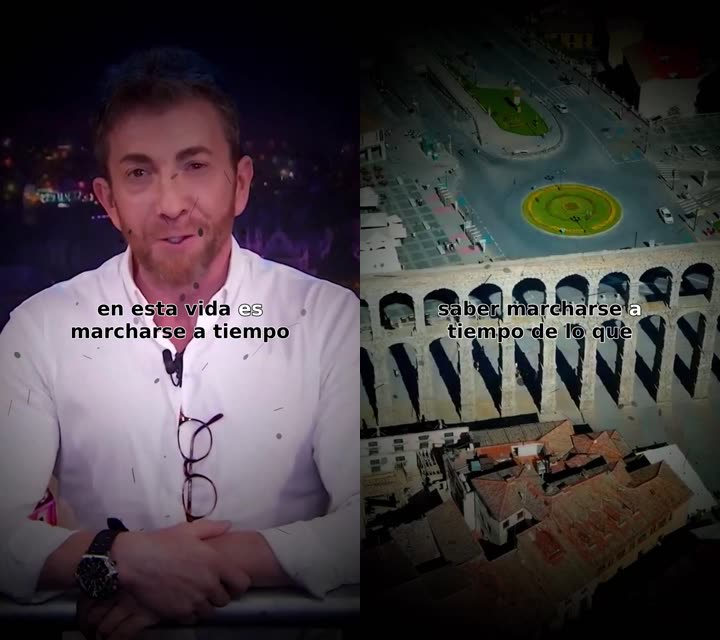
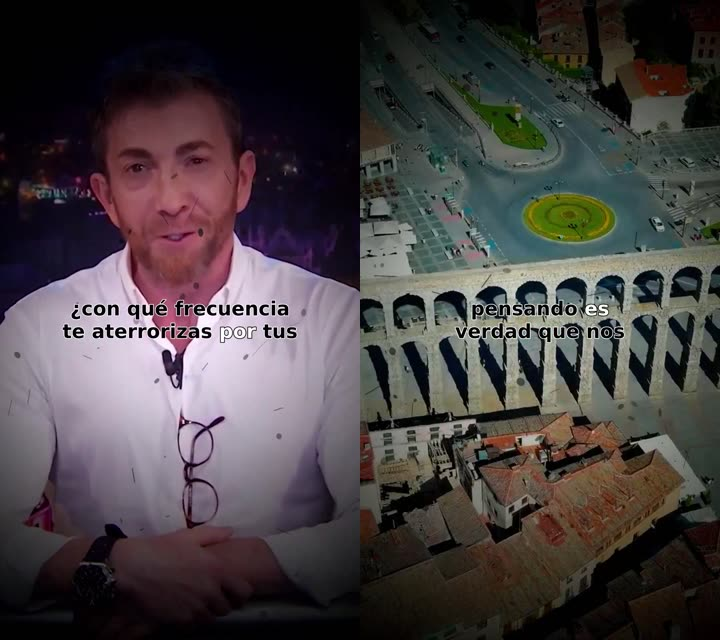
feat(viralizacion): 6 estilos (A/B/C + versiones claras) y música audible
**Estilos.** Se retiran D "Serif apilado", E "Cascada" y los dos del marco
cuadrado, G y H: no viralizaban. Quedan A, B y C, y se añaden A2, B2 y C2 —
los mismos tres textos (misma tipografía, mismo movimiento) con el acabado
LIMPIO: sin polvo de celuloide, sin rayaduras, sin grano y sin viñeta, y con
el color más claro y saturado. De los cuadrados sobrevive lo bueno que tenían:
su filtro es el de las versiones claras.

Los `build_ass` de los cuatro retirados se conservan. Volver a dar de alta un
estilo es una línea en el registro; recuperar código borrado, no.

**Música de fondo a -4 dB de la voz**, que es la muestra que eligió el operador
de cuatro (-10, -7, -6, -4). La causa de que sonara floja no era solo el valor:
`MUSIC_VOLUME` multiplicaba lo que trajera el mp3, así que el nivel dependía de
cómo estuviera masterizada la canción. Con `services/musica.py` se normaliza
antes a -24 LUFS y el ajuste pasa a significar "cuánto por debajo de la voz";
cambiar de canción ya no descoloca la mezcla.

**El limitador no limitaba.** `alimiter=limit=0.95` sin `level=disabled`
RE-NIVELA hacia el límite, o sea que subía en vez de bajar: los vídeos salían a
+0,07 dBTP, recortando. Con `level=disabled` y 0.89 quedan en -0,92 dBTP. Es el
mismo gotcha ya anotado para el POV BOF, repetido aquí.

**`voz_limpia`: `copyfile` en vez de `copy2`.** copy2 preserva metadatos y falla
con EPERM cuando el mp3 es de otro usuario (el operador sube desde el host, uid
[…]

diff --git a/src/viralizacion/pipeline/styles.py b/src/viralizacion/pipeline/styles.py
@@ -2,28 +2,21 @@
 se vean distintas si la v1 no viraliza). Registro en `STYLE_PRESETS`, orden
 de rotación en `STYLE_ORDER`.
 
-- **A "Clásico"**: línea completa blanca, borde negro, centrada — el estilo
-  ya validado por el operador.
-- **B "Reveal"**: UNA palabra en pantalla cada vez, cambiando de molde
-  tipográfico (`_STACK_MOLDES`) + grano más denso como firma visual.
-- **C "Cinemático"**: karaoke por palabra (palabra activa en blanco, resto
-  en negro) + grade frío/cálido + viñeta más fuerte + barras de letterbox
-  que entran al arrancar el b-roll.
-- **D "Teal & Orange"** (texto como C) y **F "Hora dorada"** (texto como B):
-  reaprovechan un `build_ass` existente y cambian el grade, la viñeta y la
-  transición — son variantes de color.
-- **E "Cascada"**: las palabras caen desordenadas por la pantalla
-  (`\\pos` por palabra, posición y molde sorteados) sobre un plano con motas
-  de polvo negras a la deriva.
-- **G "Cuadrado"**: marco cuadrado de esquinas redondeadas sobre fondo negro
-  y palabras que se van apilando con tipografía variada.
-- **H "Resaltado"**: mismo marco cuadrado, Montserrat ExtraBold en MAYÚSCULAS
-  abajo, la frase se va escribiendo y la palabra que suena va en amarillo.
+Son SEIS: tres estilos de texto, cada uno en dos acabados.
 
-Los dos cuadrados (G y H) son los ÚNICOS limpios: van con `_LIMPIO` y no con
-`_BASE`, o sea solo color, transiciones y texto — sin polvo, rayaduras, grano
-ni viñeta. Es una decisión del operador sobre esas dos versiones en concreto,
-no un descuido.
+- **A "Clásico"**: línea completa blanca, borde negro, centrada.
+- **B "Reveal"**: UNA palabra en pantalla cada vez, cambiando de molde
+  tipográfico (`_STACK_MOLDES`).
+- **C "Karaoke"**: palabra a palabra, la activa en blanco y el resto en negro.
+- **A2 / B2 / C2**: los mismos tres, con la MISMA tipografía y el mismo
+  movimiento, pero con el acabado LIMPIO (`_LIMPIO`): sin polvo de celuloide,
+  sin rayaduras, sin grano y sin viñeta, y con el color más claro y saturado.
+
+Hubo otros cuatro que se retiraron el 6 ago 2026 porque no viralizaban: D
+"Serif apilado", E "Cascada" y los dos del marco cuadrado, G y H. De los
+cuadrados sobrevive lo bueno que tenían — su filtro claro es el de A2/B2/C2.
+Sus `build_ass` se conservan más abajo (no estorban y volver a darles de alta
+es una línea en el registro).
 
 Añadir un estilo nuevo: define un `StylePreset` en `STYLE_PRESETS` con su
 `build_ass` y mete su clave en `STYLE_ORDER` — no hay más sitios que tocar
@@ -704,10 +697,12 @@ _BASE = dict(
     vignette_breathe=0.14,
 )
 
-# Base de los estilos CUADRADOS (G y H). El operador los quiere LIMPIOS: solo
-# el filtro de color, las transiciones y los textos. Nada de efectos por
-# pantalla — fuera el polvo de celuloide, las rayaduras, el grano y la viñeta,
-# que son justo lo que ensucia el recuadro.
+# Base de las versiones LIMPIAS (A2, B2, C2): solo el filtro de color, las
+# transiciones y los textos. Nada de efectos por pantalla — fuera el polvo de
+# celuloide, las rayaduras, el grano y la viñeta.
+#
+# Nació para los cuadrados G y H; cuando se retiraron (no viralizaban), su
+# filtro se quedó, que era lo bueno que tenían.
 #
 # El color sube pero se queda REALISTA: se deja el contraste base (1.14, que
 # `_BASE` bajaba a 1.06) y se sube la saturación un 12% con `saturation_mul`,
@@ -732,6 +727,7 @@ _LIMPIO = dict(
 )
 
 STYLE_PRESETS: dict[str, StylePreset] = {
+    # --- Los tres de siempre, con la suciedad de celuloide ---
     "classic": StylePreset(
         key="classic", label="A · Clásico", build_ass=build_ass_classic, **_BASE,
     ),
@@ -739,38 +735,33 @@ STYLE_PRESETS: dict[str, StylePreset] = {
         key="reveal", label="B · Reveal", build_ass=build_ass_reveal, **_BASE,
     ),
     "cinematic": StylePreset(
-        key="cinematic", label="C · Karaoke", build_ass=build_ass_cinematic,
-        **_BASE,
+        key="cinematic", label="C · Karaoke", build_ass=build_ass_cinematic, **_BASE,
     ),
-    "pelicula": StylePreset(
-        key="pelicula", label="D · Serif apilado", build_ass=build_ass_pelicula,
-        font_name="Playfair Display Black", fonts_dir=bundled_fonts_dir(),
-        **_BASE,
+    # --- Los mismos tres, LIMPIOS ---
+    # Misma tipografía y mismo movimiento de subtítulo que su original: lo
+    # único que cambia es el filtro. Sin polvo, sin rayaduras, sin grano y sin
+    # viñeta, y con el color claro y saturado que el operador validó en los
+    # cuadrados. A pantalla completa: el marco cuadrado era de G/H, que se
+    # retiraron.
+    "classic_claro": StylePreset(
+        key="classic_claro", label="A2 · Clásico claro",
+        build_ass=build_ass_classic, **_LIMPIO,
     ),
-    "noir": StylePreset(
-        key="noir", label="E · Cascada", build_ass=build_ass_cascade, **_BASE,
+    "reveal_claro": StylePreset(
+        key="reveal_claro", label="B2 · Reveal claro",
+        build_ass=build_ass_reveal, **_LIMPIO,
     ),
-    # G y H mantienen el MARCO CUADRADO: sus subtítulos están medidos para él
-    # (`config.HIGHLIGHT_MARGIN_V` coloca el texto contando con el recuadro),
-    # así que quitarlo no sería "mismo filtro", sería romperlos.
-    # Van con `_LIMPIO`, no con `_BASE`: son los únicos SIN suciedad de
-    # celuloide, a propósito.
-    "cuadrado": StylePreset(
-        key="cuadrado", label="G · Cuadrado", build_ass=build_ass_stacked,
-        square_frame=True, **_LIMPIO,
-    ),
-    "highlight": StylePreset(
-        key="highlight", label="H · Resaltado", build_ass=build_ass_highlight,
-        square_frame=True,
-        font_name="Montserrat ExtraBold", fonts_dir=bundled_fonts_dir(),
-        **_LIMPIO,
+    "cinematic_claro": StylePreset(
+        key="cinematic_claro", label="C2 · Karaoke claro",
+        build_ass=build_ass_cinematic, **_LIMPIO,
     ),
 }
 
+
 # Orden de rotación automática cuando el operador no elige estilo por ronda.
 STYLE_ORDER = [
-    "classic", "reveal", "cinematic", "pelicula", "noir",
-    "cuadrado", "highlight",
+    "classic", "reveal", "cinematic",
+    "classic_claro", "reveal_claro", "cinematic_claro",
 ]
 
 

diff --git a/src/viralizacion/services/musica.py b/src/viralizacion/services/musica.py
@@ -1,0 +1,75 @@
+"""Deja la música de fondo a un nivel PREDECIBLE respecto a la voz.
+
+`MUSIC_VOLUME` era un multiplicador fijo sobre lo que trajera el fichero, así
+que el resultado dependía de cómo estuviera masterizado el mp3 que hubiera en
+la carpeta. Con `Musica Reels.MP3` (-18,6 LUFS) y ganancia 0,75, la música
+acababa **20 dB por debajo de la voz**: se oye si la buscas, pero no se siente.
+
+Normalizando primero, `MUSIC_VOLUME` pasa a significar lo que uno espera —
+cuánto por debajo de la voz queda— y cambiar de canción no descoloca la mezcla.
+
+Mismo patrón que `cta_audio` y `audio_bank`: la versión procesada se cachea en
+`_procesados/`, junto al original, que no se toca.
+"""
+
+from __future__ import annotations
+
+import re
+import subprocess
+from pathlib import Path
+from typing import Callable
+
+OnLog = Callable[[str], None]
+_noop: OnLog = lambda _m: None
+
+# La voz de los vídeos acaba en torno a -12,5 LUFS. Con la música a -24 queda
+# ~11 dB por debajo: se siente y no tapa. A 20 dB (lo de antes) no se notaba.
+MUSICA_LUFS = -24.0
+MUSICA_TP = -2.0
+
+_PROCESADOS = "_procesados"
+
+
+def preparar(musica: Path, *, on_log: OnLog = _noop) -> Path:
+    """Devuelve la música normalizada, cacheada. El original no se toca.
+
+    Si falla se devuelve el original: mejor la música floja que una tanda
+    entera caída por esto.
+    """
+    musica = Path(musica)
+    destino = musica.parent / _PROCESADOS / musica.name
+    try:
+        if destino.is_file() and destino.stat().st_mtime >= musica.stat().st_mtime:
+            return destino
+        destino.parent.mkdir(parents=True, exist_ok=True)
+        med = _medir(musica)
+        norm = f"loudnorm=I={MUSICA_LUFS}:TP={MUSICA_TP}:LRA=11"
+        if len(med) == 4:
+            norm += (
+                f":measured_I={med['input_i']}:measured_TP={med['input_tp']}"
+                f":measured_LRA={med['input_lra']}:measured_thresh={med['input_thresh']}"
+            )
+        subprocess.run(
+            ["ffmpeg", "-y", "-v", "error", "-i", str(musica), "-af", norm, str(destino)],
+            check=True, capture_output=True,
+        )
+        on_log(f"[musica] {musica.name}: {med.get('input_i', '?')} → {MUSICA_LUFS} LUFS")
+        return destino
+    except Exception as e:
+        on_log(f"[musica] ⚠ no pude normalizar {musica.name} ({e}) — se usa el original")
+        return musica
+
+
+def _medir(audio: Path) -> dict[str, str]:
+    r = subprocess.run(
+        ["ffmpeg", "-v", "info", "-i", str(audio), "-af",
+         f"loudnorm=I={MUSICA_LUFS}:TP={MUSICA_TP}:LRA=11:print_format=json",
+         "-f", "null", "-"],
+        capture_output=True, text=True,
+    )
+    salida: dict[str, str] = {}
+    for clave in ("input_i", "input_tp", "input_lra", "input_thresh"):
+        m = re.search(rf'"{clave}"\s*:\s*"?(-?[\d.]+)"?', r.stderr)
+        if m:
+            salida[clave] = m.group(1)
+    return salida

diff --git a/scripts/viralizacion_previews.py b/scripts/viralizacion_previews.py
@@ -128,10 +128,14 @@ def main() -> None:
     pedidos = sys.argv[1:] or list(styles.STYLE_ORDER)
     WORK.mkdir(parents=True, exist_ok=True)
 
-    # Vía `scan_hook_candidates` y NO leyendo el JSON a pelo: es quien
-    # resuelve la ruta del gancho pre-cortado (`clip`). Leyendo el fichero
-    # salía sin ella y el render moría con `-i None`, porque los vídeos de
-    # gancho originales ya no están en disco (se subieron a Drive).
+    # La ruta del gancho pre-cortado (`clip`) sale de la CACHÉ en disco, no
+    # de este escaneo: `scan_hook_candidates` solo la devuelve si la caché ya
+    # existe (si tiene que re-escanear, el resultado NO trae `clip` y el render
+    # muere con `-i None`, porque los vídeos de gancho originales ya no están
+    # en disco — se subieron a Drive).
+    #
+    # O sea que este script NECESITA el `work_root` real. Pasarle un
+    # `API_TEMP_ROOT` distinto lo manda a una caché vacía y falla así.
     # Tampoco se usa `allocator.allocate_hook`: eso marcaría el gancho como
     # gastado, y una muestra no debe consumir del banco.
     hook = allocator.scan_hook_candidates(PONENTE)[0]

diff --git a/src/viralizacion/pipeline/renderer.py b/src/viralizacion/pipeline/renderer.py
@@ -745,14 +745,19 @@ def _finalize(
         pistas.append("[cta]")
 
     if len(pistas) == 1:
-        audio_filters.append("[voice]alimiter=limit=0.95[aout]")
+        audio_filters.append(
+            # `level=disabled` es IMPRESCINDIBLE: por defecto `alimiter`
+            # RE-NIVELA la salida hacia el límite, o sea que en vez de
+            # limitar SUBE. Sin esto los vídeos salían a +0,07 dBTP.
+            "[voice]alimiter=limit=0.89:level=disabled[aout]"
+        )
     else:
         # `longest` cuando hay CTA: suena DESPUÉS de la voz, así que con
         # `first` (que se ata a la voz) se cortaría entero.
         dur_mode = "longest" if cta_path is not None else "first"
         audio_filters.append(
             f"{''.join(pistas)}amix=inputs={len(pistas)}:duration={dur_mode}:"
-            "normalize=0,alimiter=limit=0.95[aout]"
+            "normalize=0,alimiter=limit=0.89:level=disabled[aout]"
         )
 
     siguiente_idx = idx_cta + (1 if cta_path is not None else 0)

diff --git a/src/viralizacion/pipeline/batch.py b/src/viralizacion/pipeline/batch.py
@@ -215,6 +215,14 @@ def run_batch(
     staging_root.mkdir(parents=True, exist_ok=True)
 
     music_path = config.musica_file()
+    # Normalizada a un nivel fijo: `MUSIC_VOLUME` era un multiplicador sobre lo
+    # que trajera el mp3, así que el resultado dependía de cómo estuviera
+    # masterizada la canción. Normalizando primero, el ajuste significa siempre
+    # "cuánto por debajo de la voz" y cambiar de canción no descoloca la mezcla.
+    if music_path is not None:
+        from src.viralizacion.services import musica as musica_svc
+
+        music_path = musica_svc.preparar(music_path, on_log=on_log)
 
     total_videos = sum(max(0, cantidad.get(p, 0)) for p in ponentes)
     done = 0

diff --git a/src/viralizacion/pipeline/voz_limpia.py b/src/viralizacion/pipeline/voz_limpia.py
@@ -119,5 +119,9 @@ def limpiar_en_sitio(audio: Path, *, on_log: OnLog = _noop) -> Path:
     with tempfile.TemporaryDirectory(prefix="voz_limpia_") as tmp:
         salida = Path(tmp) / audio.name
         limpiar(respaldo, salida, tmp_dir=Path(tmp) / "demucs", on_log=on_log)
-        shutil.copy2(salida, audio)
+        # `copyfile` y NO `copy2`: copy2 preserva metadatos (utime/permisos) y
+        # eso revienta con EPERM cuando el fichero es de OTRO usuario, que es
+        # lo normal aquí — los audios los sube el operador desde el host y esto
+        # corre dentro del container. El contenido es lo único que importa.
+        shutil.copyfile(salida, audio)
     return audio

diff --git a/src/viralizacion/config.py b/src/viralizacion/config.py
@@ -437,7 +437,12 @@ TRANSITION_HOOK = ("fadeblack", 0.9)
 TRANSITION_LANDSCAPE = ("fadeblack", 1.05)
 
 VOICE_VOLUME = 1.0
-MUSIC_VOLUME = 0.75
+# Sobre la música YA NORMALIZADA a -24 LUFS (`services/musica.py`), no sobre el
+# fichero crudo. Medido aislando la música por resta: 1.5 la deja 4 dB por
+# debajo de la voz, que es el nivel que eligió el operador escuchando muestras
+# ("se escucha más"). Con 1.0 quedaría a -7 dB y con 0.75 a -10, que era lo de
+# antes y le sonaba flojo.
+MUSIC_VOLUME = 1.5
 MUSIC_FADEOUT_DUR = 0.5
 
 EQ_BASE_CONTRAST = 1.14

diff --git a/learnings.md b/learnings.md
@@ -435,3 +435,8 @@
 - [2026-08-06] [POV BOF Largo] El prompt del curso pide 260 caracteres "para 15 segundos" pero su propio ejemplo tiene 357, y a 18,2 car/s eso son 20s: los 260 son inalcanzables en ese estilo. Forzarlos con reintentos deja el guion telegráfico. Se deja largo y se avisa; el vídeo son dos clips de 10s y se recorta a lo que dure la voz.
 - [2026-08-06] [POV BOF Largo] La cadena de nivelado del POV BOF (`TP=-1.5`, limitador 0.9) NO vale para voces de Fish: daba +0,20 dBTP (recorte). Con `TP=-2.0` y 0.89 queda en -13 LUFS con pico -1,1. Los TTS tienen picos distintos a las grabaciones humanas.
 - [2026-08-06] Fish Audio trae el sexo de la voz en `tags` (`male`/`female`) y la edad. Adivinarlo midiendo el tono (F0 por autocorrelación) NO funciona: errores de octava (232 Hz para voz masculina).
+- [2026-08-06] [Viralización] Estilos: se retiran D, E, G y H (no viralizaban) y quedan A/B/C + A2/B2/C2, que son los mismos textos con el acabado limpio (`_LIMPIO`, el que se hizo para los cuadrados).
+- [2026-08-06] La música de fondo iba con un multiplicador fijo (`MUSIC_VOLUME`) sobre lo que trajera el mp3: el nivel dependía del máster de la canción. Normalizar primero (`services/musica.py`, -24 LUFS) hace que el ajuste signifique "cuánto por debajo de la voz". Elegido -4 dB.
+- [2026-08-06] `alimiter` SIN `level=disabled` re-nivela hacia arriba: el renderer de Viralización llevaba `limit=0.95` a pelo y los vídeos salían a +0,07 dBTP (recortando) en vez de limitados. Ya estaba anotado para el POV BOF y se repitió aquí.
+- [2026-08-06] `voz_limpia.limpiar_en_sitio` usaba `shutil.copy2`, que copia metadatos y falla con EPERM cuando el fichero es de otro usuario (host uid 1000 vs container uid 999). Con `copyfile` funciona. Y OJO: hace el respaldo ANTES de separar, así que "tiene respaldo" NO significa "está limpio" — hay que comparar el contenido.
+- [2026-08-06] `scripts/viralizacion_previews.py` necesita el `work_root` REAL: la ruta del gancho pre-cortado sale de la caché en disco, no del escaneo. Pasarle `API_TEMP_ROOT` lo manda a una caché vacía, re-escanea y el render muere con `-i None`.
